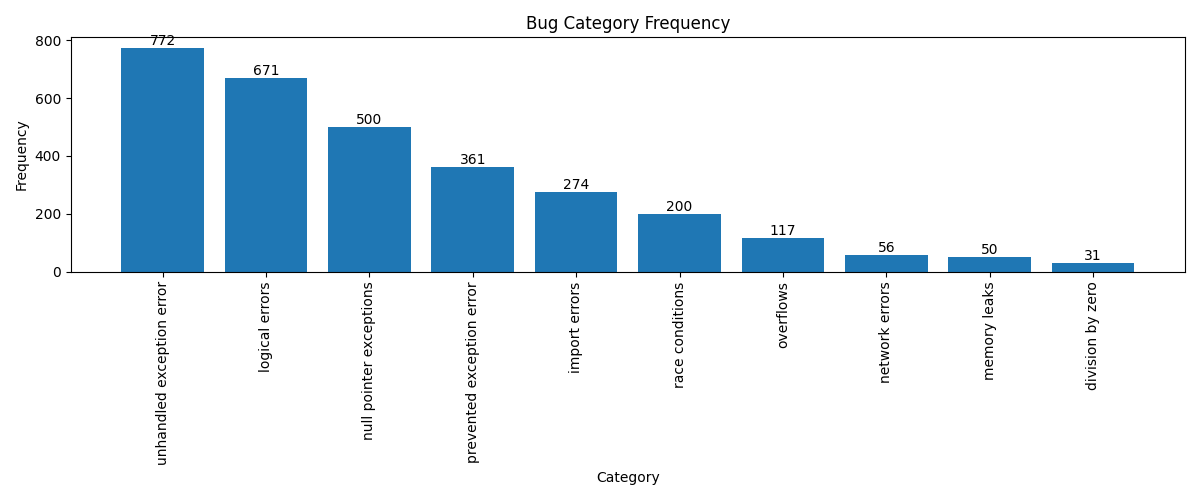
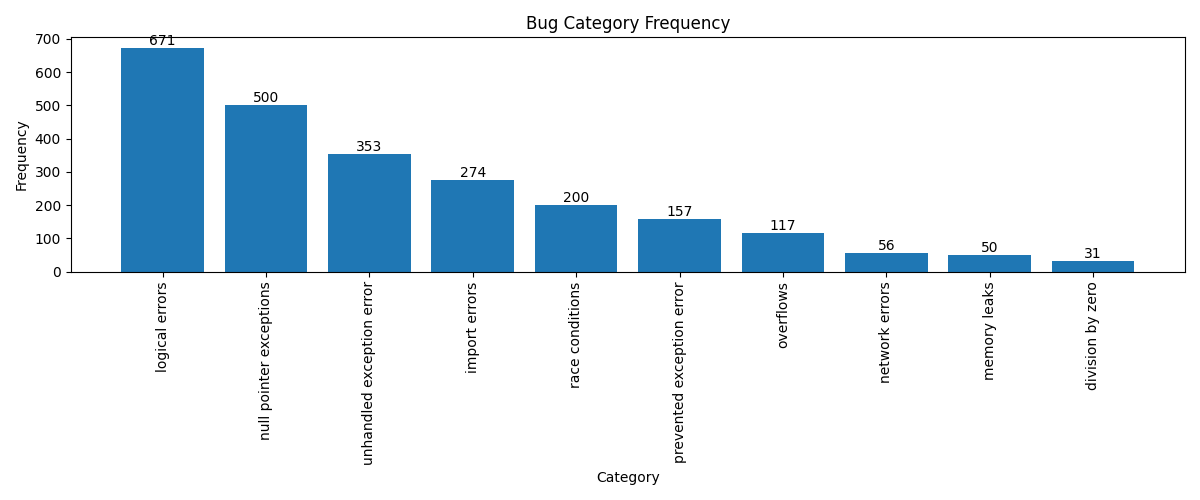
wip

diff --git a/src/main.py b/src/main.py
@@ -136,23 +136,21 @@ def categorized_bug_4():
                     'networkerror',
                 ],
                 'prevented exception error': [
-                    ['exception', ' prevent'],
-                    ['exception', ' fix'],
+                    [' exception ', ' prevent '],
+                    [' exception ', ' fix '],
                 ],
                 'unhandled exception error': [
-                    ['exception', ' add'],
-                    ['exception', ' raise'],
-                    ['exception', ' include'],
-                    ['exception', ' another'],
-                    ['exception', ' raise'],
-                    ['exception', ' replace'],
-                    ['exception', ' correct'],
-                    ['exception', ' cause'],
-                    ['exception', ' use'],
-                    ['exception', ' catch'],
-                    ['exception', ' make'],
-                    ['exception', ' handle'],
-                    ['exception', ' broaden'],
+                    [' exception ', ' add '],
+                    [' exception ', ' raise '],
+                    [' exception ', ' include '],
+                    [' exception ', ' another '],
+                    [' exception ', ' raise'],
+                    [' exception ', ' correct '],
+                    [' exception ', ' use '],
+                    [' exception ', ' catch '],
+                    [' exception ', ' make '],
+                    [' exception ', ' handle '],
+                    [' exception ', ' broaden'],
                 ],
     }
 
